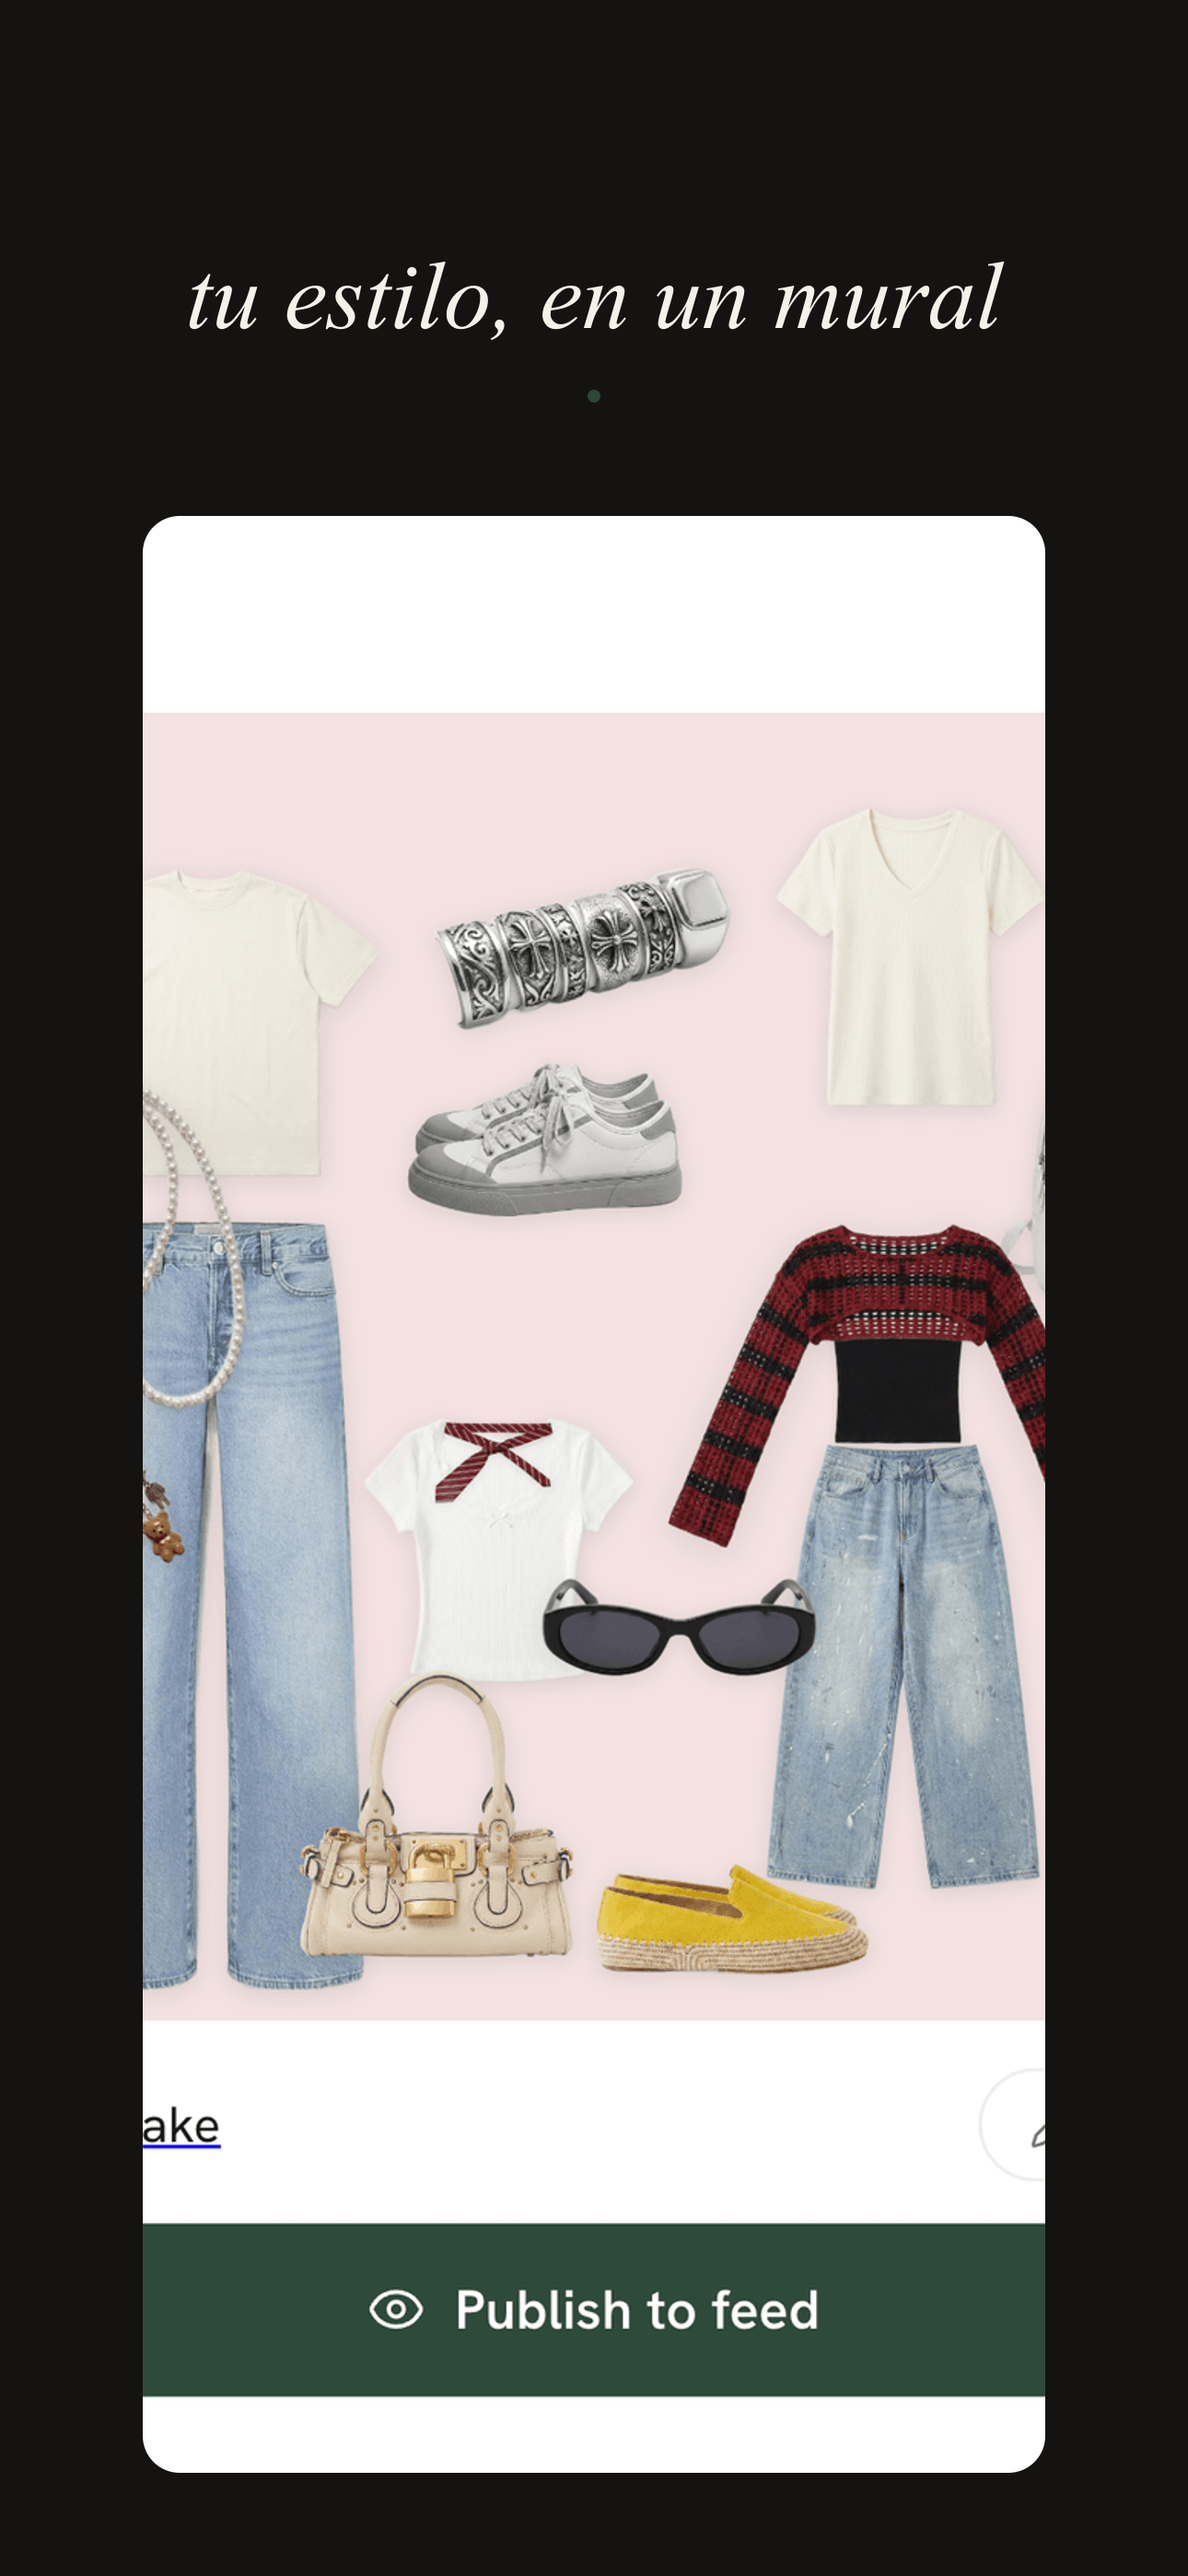
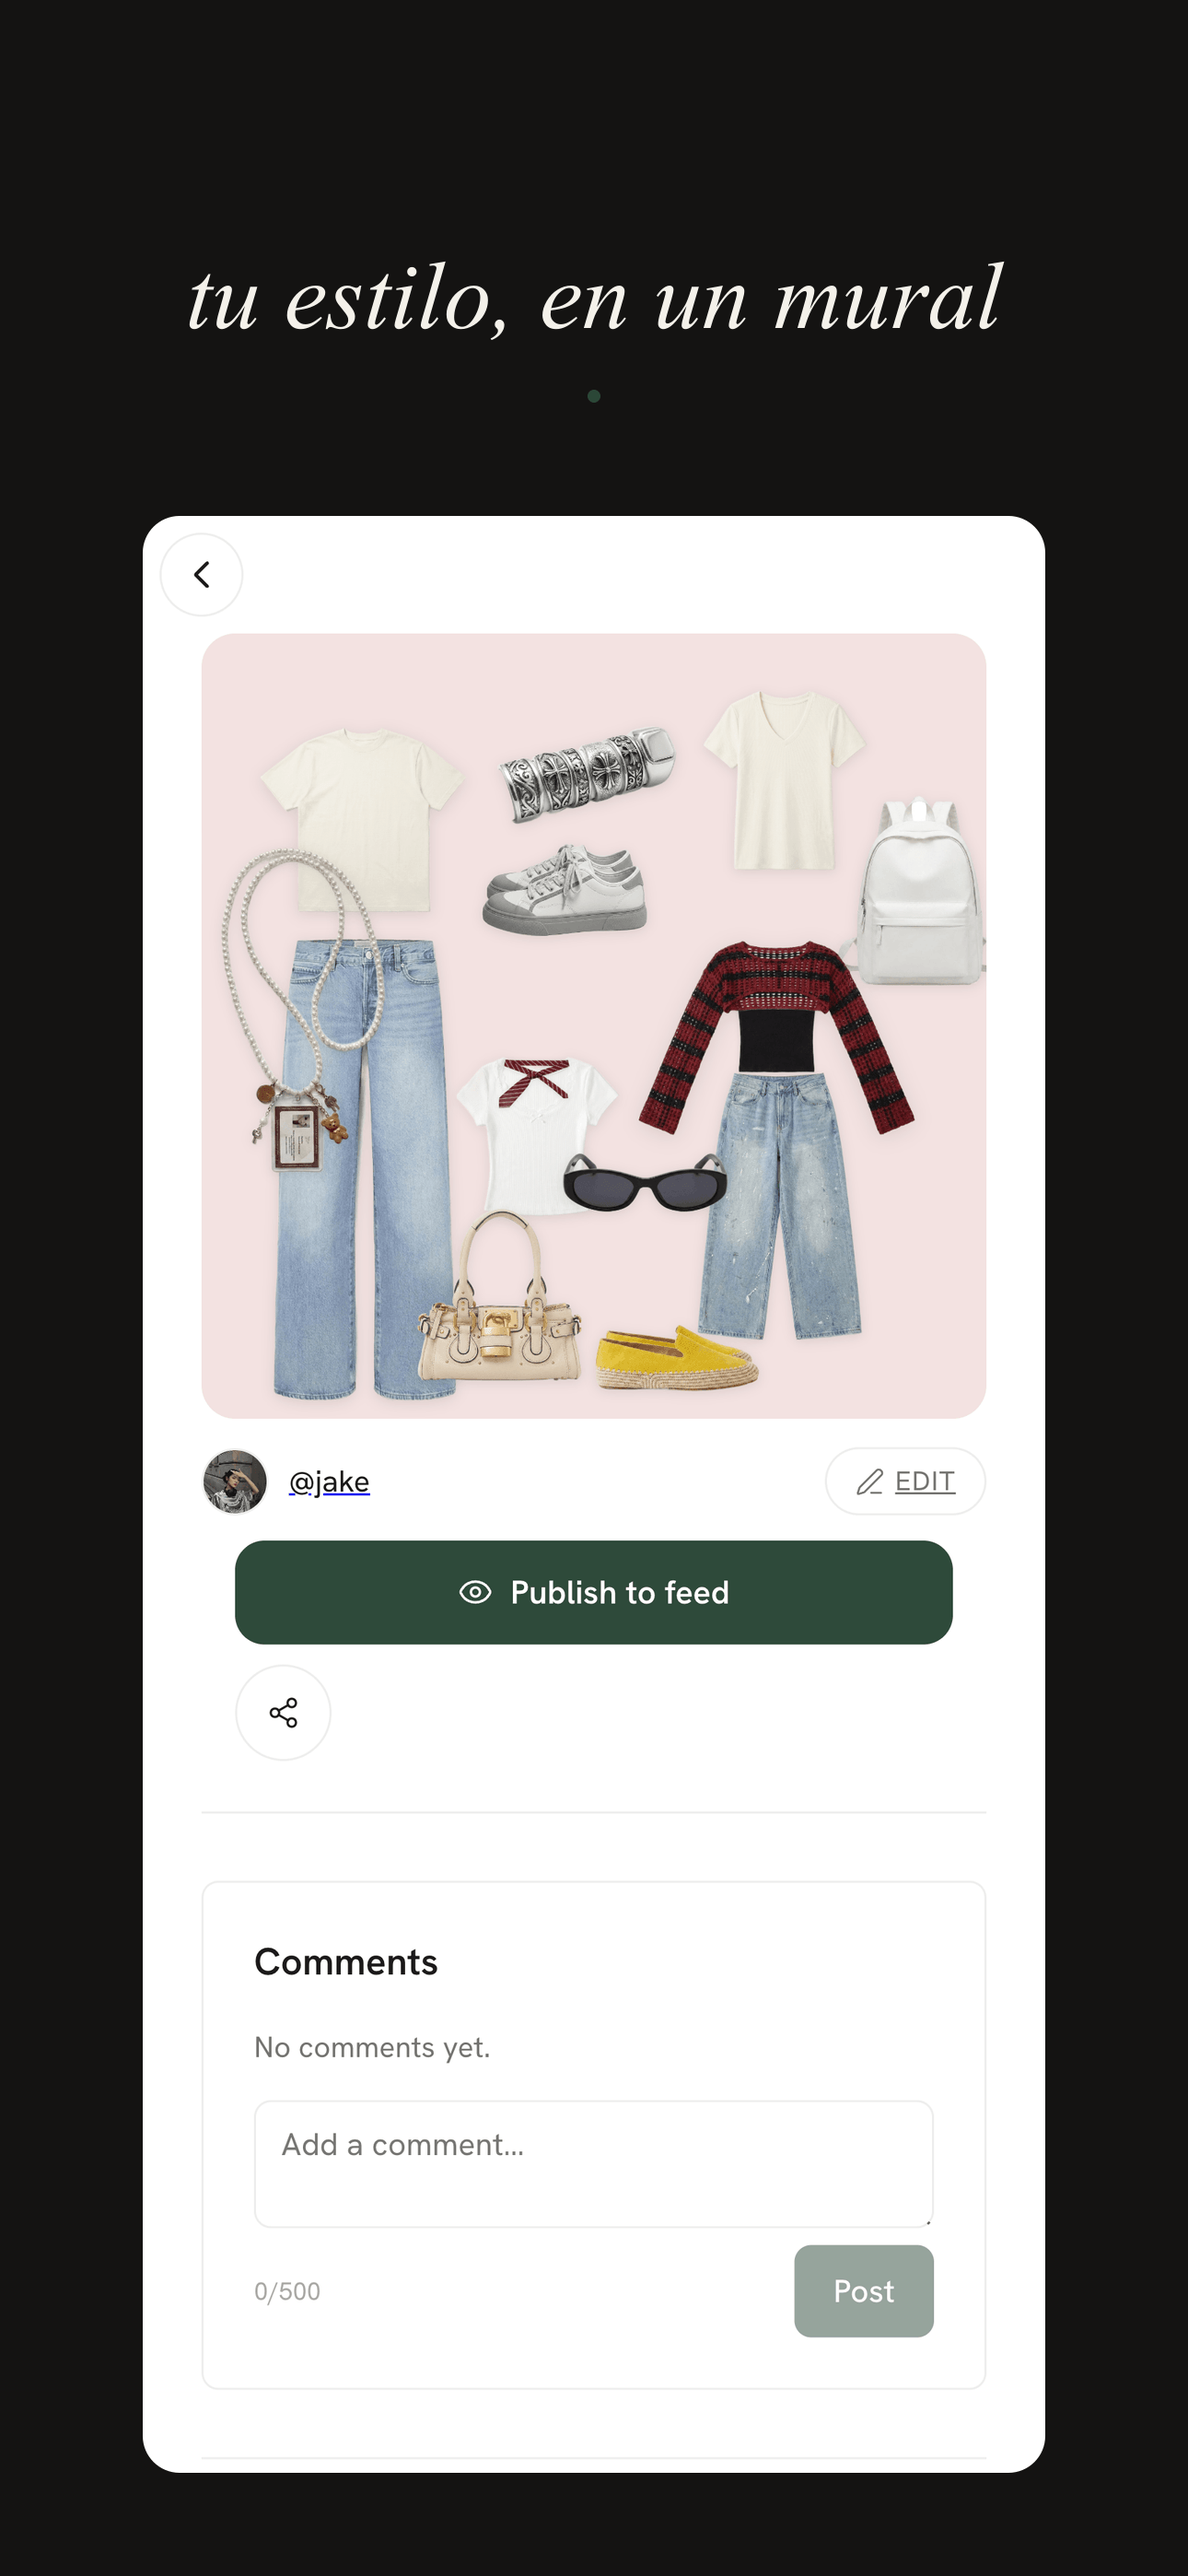
fix(store): board poster renders the capture whole
The crop added with the slide mangled it. The card is 980x2124, nearly the
capture's own aspect, so trimming height leaves a relatively wider image and
fit:cover scales it up to reach the card height — blowing the collage up and
cropping both sides away.

Claude-Session: https://claude.ai/code/session_01Kk5jV3u6JRPAGqrQDyTMcv

diff --git a/CHANGELOG.md b/CHANGELOG.md
@@ -653,9 +653,12 @@ views, 8 s/user" — was never queried; it was asserted. The real 90-day numbers
 boards is indeed the least-used profile tab at 198 views / 39 users, against
 closet's 1,887 / 71 and try-on's 942 / 53. But least-used earns the last slot,
 not deletion — the App Store takes ten screenshots and slide 7 is past
-everything that decides a tap. It renders from a 60% crop, because the capture's
-lower portion is the comments block and a green "Publish to feed" button, and
-the feed has no tab in the shipped app.
+everything that decides a tap. It renders from the capture whole: a 60% crop was
+tried first, to push the green "Publish to feed" button out of frame, and it
+mangled the slide — the card is 980×2124, nearly the capture's own aspect, so
+cutting height leaves a relatively wider image that `fit: cover` scales up to
+reach the card height, blowing the collage up and cropping both sides off. Any
+height trim does this; reframing belongs in the capture.
 
 **Poster order is the argument, not the feature list.** Search results show
 the first three portrait shots before anyone taps, and the deck inherited

diff --git a/resources/app-store/README.md b/resources/app-store/README.md
@@ -2,10 +2,11 @@
 
 ## What's here
 
-The board capture is the one slide rendered from a crop (`crop: 0.60` in the
-DECK): shot whole, its lower 40% is the comments block and a green "Publish to
-feed" button, and the feed has no tab in the shipped app — the store would be
-advertising a door that isn't there.
+Every slide uses its capture whole. Trimming one to hide something near the
+bottom does not work here and fails loudly: the card is 980×2124, nearly the
+captures' own aspect ratio, so cutting height leaves a relatively wider image
+and `fit: cover` scales it up to reach the card's height — blowing the content
+up and cropping both sides away. Reframe in the app and re-capture instead.
 
 - `captures/` — the raw phone screenshots the posters are built from. Source of
   truth, committed. Older ones are 1290×2796 (6.7"); the trends and stylist
